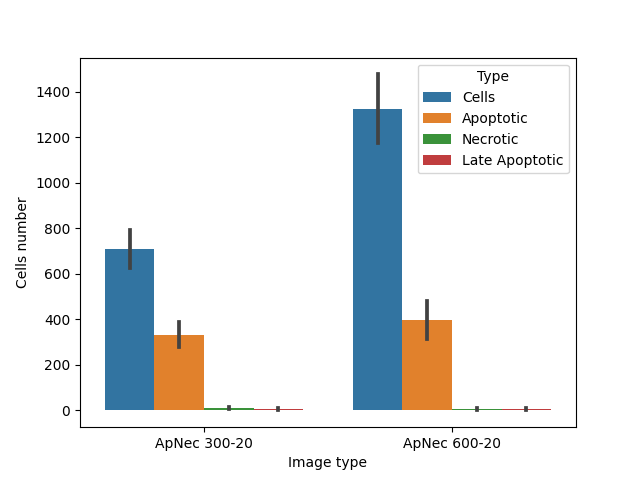
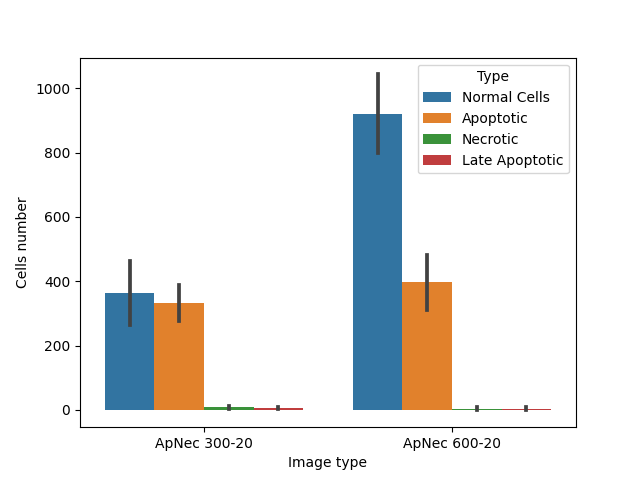
Now not total number of cells on graphs but number of normal cells

diff --git a/CP_AN_table_processing.py b/CP_AN_table_processing.py
@@ -59,30 +59,31 @@ for name in image_names:
     necrosis_df_current = necrosis_df.loc[necrosis_df["FileName_Original"] == name]
     an_df_current = an_df.loc[an_df["FileName_Original"] == name]
 
-    cells_number = cells_df_current.shape[0] #Count number of rows with same image name
     apoptosis_number = apoptosis_df_current.shape[0]
     necrosis_number = necrosis_df_current.shape[0]
     an_number = an_df_current.shape[0]
+    all_cells_number = cells_df_current.shape[0] #Count number of rows with same image name
+    normal_cells_number = all_cells_number - an_number - necrosis_number - apoptosis_number
 
     #Extract original image number from image name
     image_number,image_type = number_type_from_imagename(name)
 
     #Create df with current data 
-    result_current =  pd.DataFrame({'Image number':[image_number], 'Image name':[name],'Image type':[image_type], 'N Cells':[cells_number], 'N Apoptotic':[apoptosis_number], 
+    result_current =  pd.DataFrame({'Image number':[image_number], 'Image name':[name],'Image type':[image_type], 'N Cells':[normal_cells_number], 'N Apoptotic':[apoptosis_number], 
         'N Necrotic':[necrosis_number], 'N NA':[an_number]})
 
-    current_df_sns = pd.DataFrame({'Image type':[image_type,image_type,image_type,image_type], 'Type':["Cells","Apoptotic","Necrotic","Late Apoptotic"],
-    'Cells number':[cells_number,apoptosis_number,necrosis_number,an_number]})
+    current_df_sns = pd.DataFrame({'Image type':[image_type,image_type,image_type,image_type], 'Type':["Normal Cells","Apoptotic","Necrotic","Late Apoptotic"],
+    'Cells number':[normal_cells_number,apoptosis_number,necrosis_number,an_number]})
 
     #Append current data to result df
     # result_df = result_df.append(result_current)
     result_df = pd.concat([result_current, result_df])
     result_df_sns = pd.concat([current_df_sns,result_df_sns])
 
-# result_df = result_df.sort_values(by=['Image name'])
-# result_sorted_df = result_df.sort_values(by=['Image number'])
+result_df = result_df.sort_values(by=['Image name'])
+result_sorted_df = result_df.sort_values(by=['Image number'])
 
-# data = mean_and_stdev_by_type(result_sorted_df,'ApNec 300-20')
+data = mean_and_stdev_by_type(result_sorted_df,'ApNec 300-20')
 print(result_df_sns)
 
 
